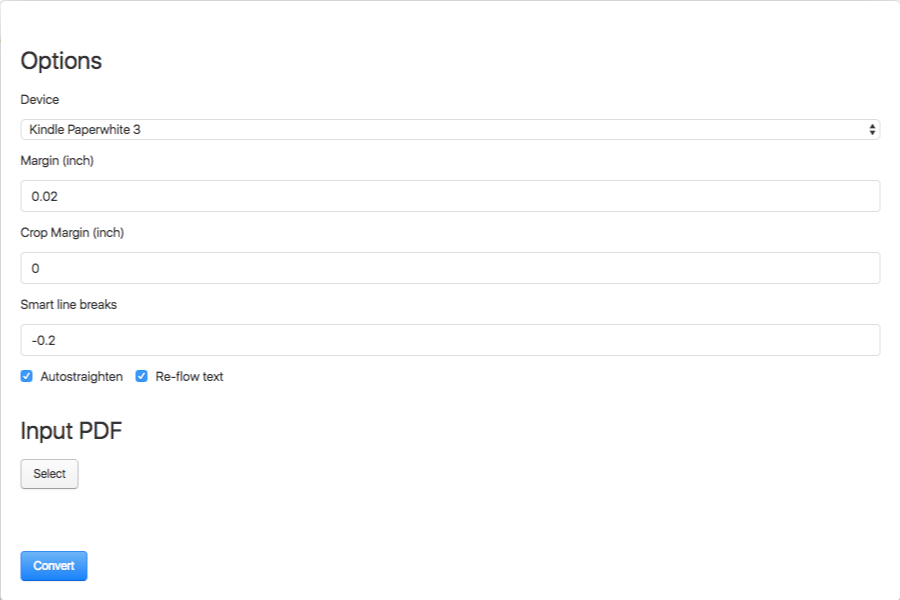
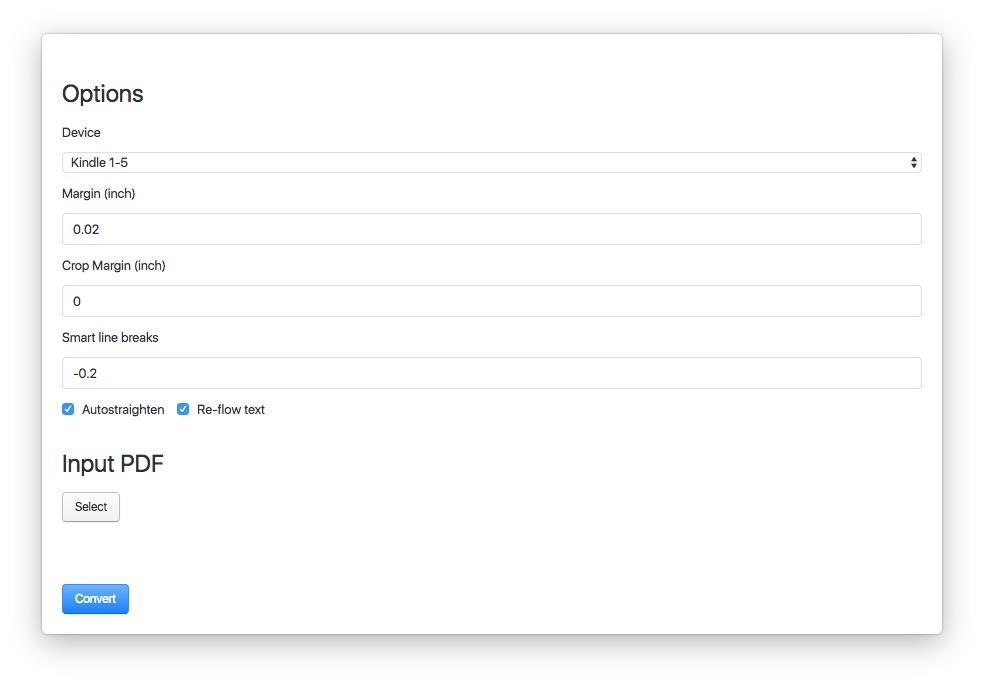
Update screenshot

Changed region(s): [[0.0, 0.06, 0.9644, 0.99], [0.0622, 0.03, 0.9333, 0.06]]

diff --git a/README.md b/README.md
@@ -2,7 +2,7 @@
 
 cross platform GUI for k2pdfopt, built with electron.
 
-![screenshot](screenshot.png?raw=true&v=2)
+![screenshot](screenshot.png?raw=true&v=3)
 
 ## License
 
